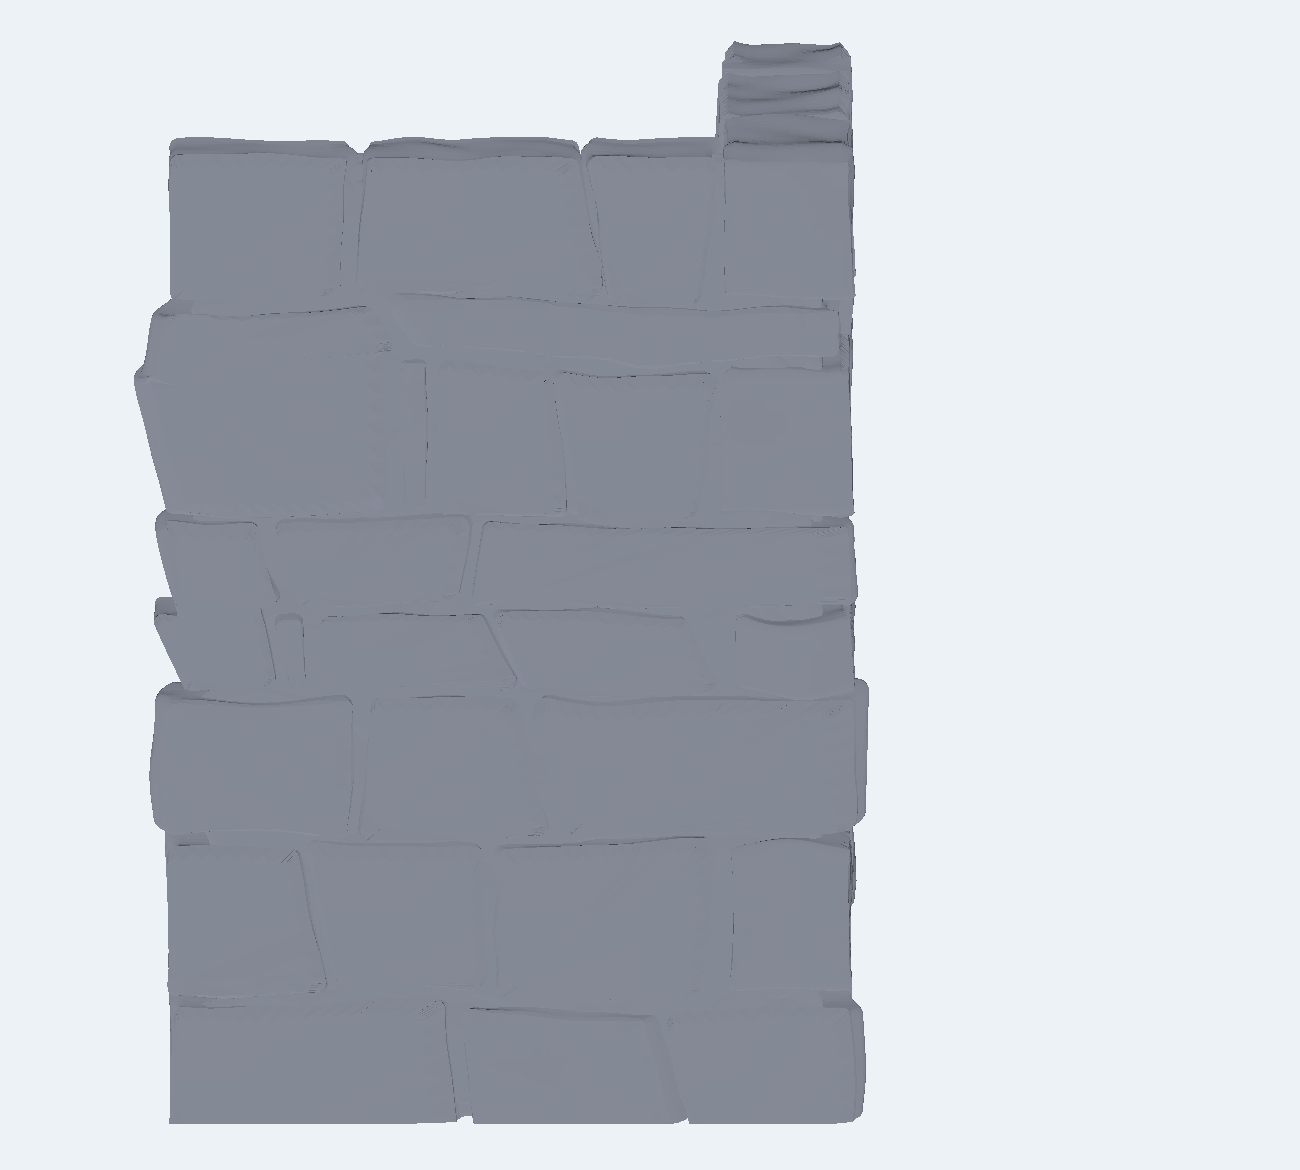
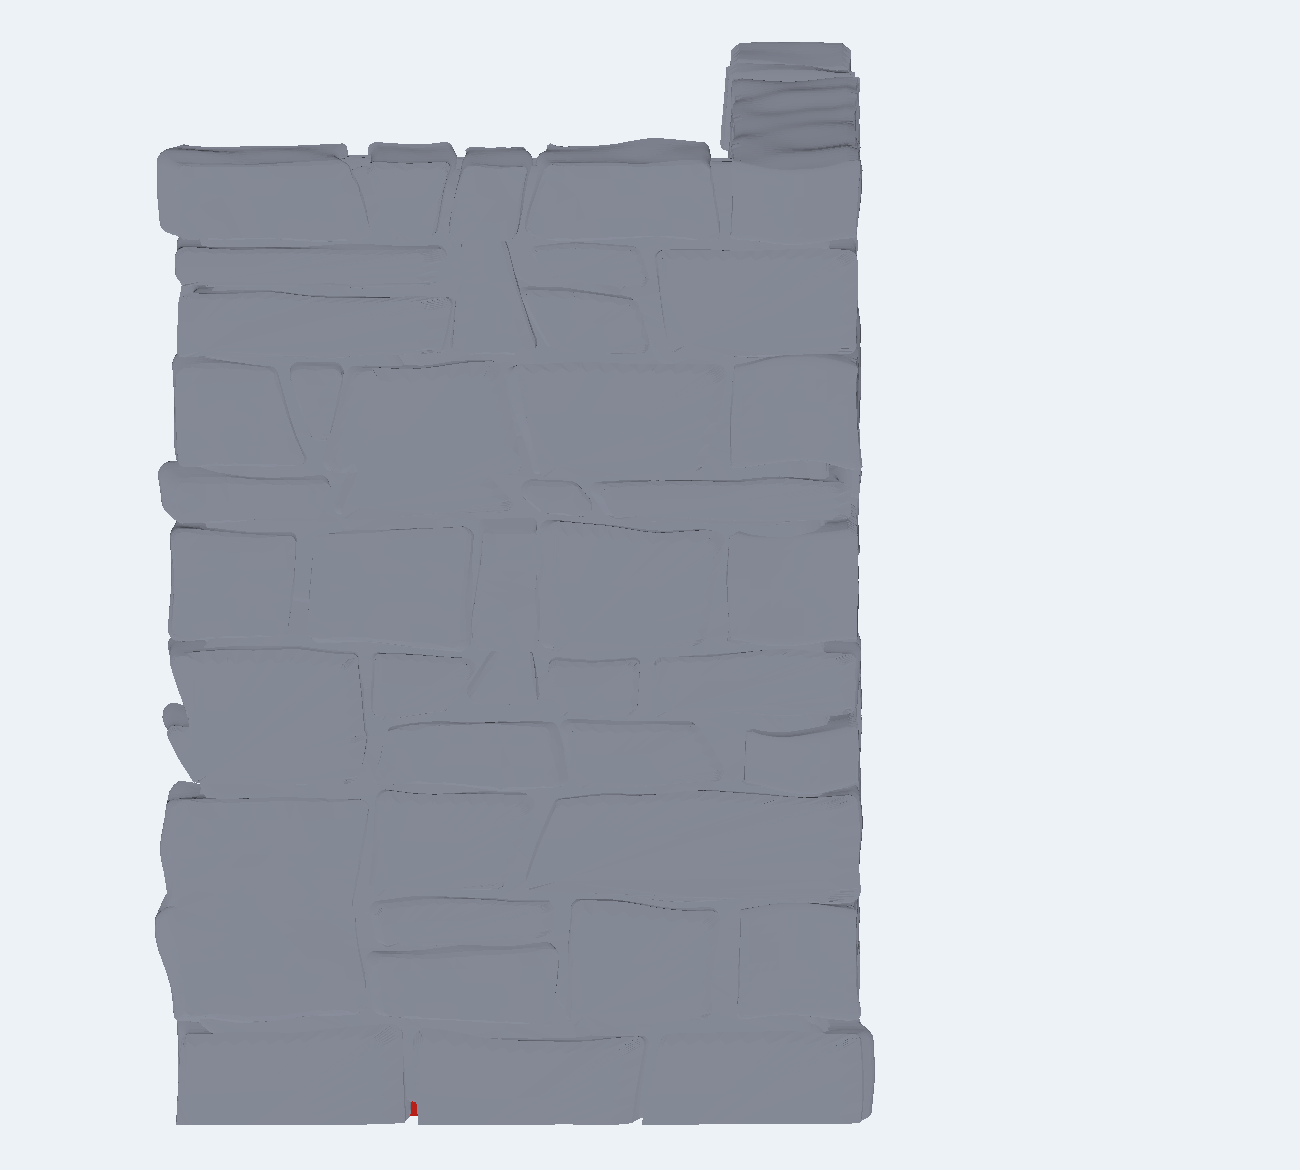
Walls: fieldstone E13 — shorter stones (more bed lines)
Shawn approved E12 ("that's great. I love it") and asked for more
horizontal cracks / shorter stones in general:

- courses 2.8-7.5mm (was 3.4-9.6)
- h-split prob 0.28 at cells >= 5.5mm (was 0.18 at >= 6.5)
- bed wobble amplitude 0.14-0.32 per sine (was 0.18-0.40): the
  thinnest split stones drop to ~2.5mm and two independent bed
  curves must never cross
- throughstone merges unchanged (0.20) — the size contrast the
  references show

Red-mortar diag 0.00-0.02% all five views.

diff --git a/src/dharmatiles/walls/fieldstone.py b/src/dharmatiles/walls/fieldstone.py
@@ -45,12 +45,12 @@ from .masonry import CutStoneWall, _Cell, _Seg, _RELIEF_WAVES
 
 # ── Iteration knobs (module constants while prototyping) ─────────────────────
 # Crack network
-_WOBBLE_AMP_MM    = (0.18, 0.40)  # per-sine bed wobble amplitude (2 sines).
-                                  # Total ≤ 0.8: two INDEPENDENT beds can
+_WOBBLE_AMP_MM    = (0.14, 0.32)  # per-sine bed wobble amplitude (2 sines).
+                                  # Total ≤ 0.64: two INDEPENDENT beds can
                                   # close on each other by twice that, and
                                   # the thinnest stones (split pairs of a
-                                  # 6.5 mm course) are ~2.9 mm — the beds
-                                  # must never cross
+                                  # 5.5 mm course at 2.8–7.5 mm courses)
+                                  # are ~2.5 mm — the beds must never cross
 _WOBBLE_WL_MM     = (14.0, 40.0)  # bed wobble wavelengths
 _WOBBLE_TAPER_MM  = 12.0          # wobble fades to 0 within this of a
                                   # segment end: corners/butt ends pack
@@ -75,7 +75,8 @@ _N_STATIONS       = 7             # loft stations through the thickness
 # Cell topology
 _THROUGH_FRAC     = 0.20          # fraction of eligible cells merged with
                                   # the cell above into a throughstone
-_SPLIT_H_PROB     = 0.18          # tall cell → two stacked thinner stones
+_SPLIT_H_PROB     = 0.28          # tall cell → two stacked thinner stones
+_SPLIT_H_MIN_MM   = 5.5           # eligible cell height for an h-split
 # Rubble hearting (E10 guarantee, unchanged)
 _RUBBLE_SPACING_MM = 4.2
 _RUBBLE_FOOT      = (8.5, 11.0)
@@ -176,7 +177,7 @@ class FieldstoneWall(CutStoneWall):
     """
 
     def __init__(self, spine, *,
-                 course_mm: tuple[float, float] = (3.4, 9.6),
+                 course_mm: tuple[float, float] = (2.8, 7.5),
                  bay_mm:    tuple[float, float] = (5.0, 16.0),
                  joint_mm:  float = 0.5,
                  reveal_mm: float = 2.8,
@@ -298,7 +299,8 @@ class FieldstoneWall(CutStoneWall):
         for c in cells:
             h = c.z1 - c.z0
             if (c.is_top or c.is_quoin or len(c.key) > 3
-                    or h < 6.5 or rng.random() > _SPLIT_H_PROB):
+                    or h < _SPLIT_H_MIN_MM
+                    or rng.random() > _SPLIT_H_PROB):
                 out.append(c)
                 continue
             zm = c.z0 + h * rng.uniform(0.45, 0.65)

diff --git a/docs/design/walls-coursed-masonry.md b/docs/design/walls-coursed-masonry.md
@@ -186,7 +186,8 @@ unioned surface — the DB set-13 signature).
 | E9 | **Red-mortar diagnostic** (`src/extras/wall_mortar_diag.py`: core red, stones grey, no union, top+4 sides, red-pixel fraction printed; below-soil clipped). Round 1 measured 17 % red on faces — a rounded stone touches its face plane at ONE TANGENT POINT, so straight-on the wall was stones floating in mortar. Fixes, in causal order: (a) `_FLATTEN_Y` face squash — builders turn the flattest side out; broad face patches (17→9 %); (b) `_OVERLAP_MM` past joint midlines — stacked stones TOUCH, union merges contacts into bedding creases; blockiness floor 0.55 — below ~0.5 the hull silhouette recedes between corners and shared edges open into channels (9→4.6 %); (c) through-flank pins + `_PIN_PROB` 1.0 (4.6→3.5 %); (d) **rubble hearting** (`_extra_parts` hook): the by-construction end-state — pins chase voids case-by-case but void shapes are unpredictable; a half-pitch-staggered overlapping sheet of cheap rubble stones (hull+roundover only, no remesh) through the wall body makes every void a window onto deeper stones, never onto the core plane (3.5→**0.4–0.8 %**, and the leftover flecks read as deep-void shadow) | **Shawn: "rocks can't overlap — fused rocks, not a carefully stacked pile; look at the reference"** |
 | E10 | **No overlap anywhere** — the E9 overlap erased the dark outline around every stone, which IS the stacked read (reference photo). Stones exact-fit their jointed cells (joint 0.9 real gaps); overlap/bulge deleted; pins deleted (they straddle crossings → would fuse; hearting owns gap depth). Hearting became the sealed layer: footprint ≥2× pitch (hull corners recede ~25 % in their boxes — box-touching left 3.8 % measured holes), two y-layers staggered half-pitch in t AND z, setback 1.6 vs core reveal 2.8 (at setback 0.15 the rubble BURIED the coursing; at 2.0 vs reveal 2.2 oblique rays leaked past rubble edges). Red 0.00–0.06 % all five views. Instrument lesson: the flat-shaded diagnostic under-reads gap-depth contrast (no shadows) — over-tuning against it (wider joints, domed faces) mushed the real-light read; final judgment on the pyrender PNG + MeshLab | **Shawn: still not the reference** — the exact-fit rule makes every belly tangent to the SAME plane, so the wall face is geometrically flat and reads as texture embossed on a slab; "everything is up for grabs" |
 | E11 | Per-stone recession + gravity pockets + chinkers on the cell-hull chassis (never judged — superseded mid-round). Kept findings: (a) rubble hearting must honour the face setback in **t** too — segment END planes are visible faces (free ends, corner arris), and 0.3 mm-clipped rubble read as a broken pebble column down the arris; (b) no bay cut inside an owned corner cell (+2 mm margin) or a sliver quoin breaks the corner; (c) int key tags, not strings — `_place_block` hashes `cell.key` and str hashes vary per process | superseded by round-8 redirect |
-| E12 | **Approach reset (Shawn round-8: "distinct natural stones, fitting together with tight cracks … stones fitting into all the space; find 10 reference images and look carefully").**  Reference set collected → `docs/reference/walls/fieldstone/README.md`; the images agree: adjacent stones SHARE edge geometry (parallel edges, bulge-fits-notch), stone covers ≥90 % of the face, cracks are thin (~0.3–0.7 mm at scale) and uniform.  Independent per-cell hulls can never produce that complementarity — root cause of E6–E11.  Rebuilt **crack-network-first**: courses/bays give the crack topology; each bed line gets a shared wobble, each head joint a shared slant (both sides evaluate the same cached curve → complementary by construction); stone face outline = its bounded polygon inset joint/2 (shapely) with rounded corners; solid = outline lofted through the thickness with a gentle belly; per-stone tone from belly-apex drift + proudness, NO whole-stone rotation (it would open wedges).  Finishing: subdivide → broadband relief → Taubin; **no blur-remesh** (near-planar faces are marching cubes' terracing case — rendered as radial/banded artifacts) and **no centroid-fan caps** (skinny triangles streak under smooth shading) — caps are Delaunay over ring + interior grid; ring keeps shapely's corner vertices (`segmentize`, not uniform resample — under-sampled 0.42 mm corner arcs banded).  Red-mortar 0.00–0.03 % all five views; ~5 s build (no remesh) | pending Shawn |
+| E12 | **Approach reset (Shawn round-8: "distinct natural stones, fitting together with tight cracks … stones fitting into all the space; find 10 reference images and look carefully").**  Reference set collected → `docs/reference/walls/fieldstone/README.md`; the images agree: adjacent stones SHARE edge geometry (parallel edges, bulge-fits-notch), stone covers ≥90 % of the face, cracks are thin (~0.3–0.7 mm at scale) and uniform.  Independent per-cell hulls can never produce that complementarity — root cause of E6–E11.  Rebuilt **crack-network-first**: courses/bays give the crack topology; each bed line gets a shared wobble, each head joint a shared slant (both sides evaluate the same cached curve → complementary by construction); stone face outline = its bounded polygon inset joint/2 (shapely) with rounded corners; solid = outline lofted through the thickness with a gentle belly; per-stone tone from belly-apex drift + proudness, NO whole-stone rotation (it would open wedges).  Finishing: subdivide → broadband relief → Taubin; **no blur-remesh** (near-planar faces are marching cubes' terracing case — rendered as radial/banded artifacts) and **no centroid-fan caps** (skinny triangles streak under smooth shading) — caps are Delaunay over ring + interior grid; ring keeps shapely's corner vertices (`segmentize`, not uniform resample — under-sampled 0.42 mm corner arcs banded).  Red-mortar 0.00–0.03 % all five views; ~5 s build (no remesh) | **Shawn: "that's great. I love it"** + one change → E13 |
+| E13 | **Shorter stones** (Shawn: more horizontal cracks): courses 2.8–7.5 (was 3.4–9.6), h-split prob 0.28 at ≥5.5 mm (was 0.18 at ≥6.5), bed wobble amp per sine 0.14–0.32 (was 0.18–0.40 — the thinnest split stones drop to ~2.5 mm and two independent beds must never cross).  Throughstone merges kept at 0.20 for size contrast.  Red 0.00–0.02 % | pending Shawn |
 
 Implementation notes: cut-stone blocks finish through `_blur_remesh`
 (σ 0.7) — `subdivide_to_size` leaves T-junctions that break the
